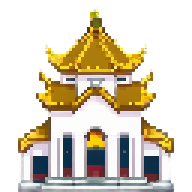
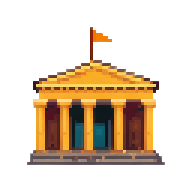
Torre do sacerdote: pagode asiatico -> templo grego (Partenon)
A tower_priest saia como pagode tailandes (telhado curvo dourado), que
destoava do tema grego. Prompt reescrito para templo parthenon com colunas
doricas e fontao triangular; NEG global reforcado contra pagoda/asian/
oriental/curved roof.

diff --git a/tools/gen_scenery.py b/tools/gen_scenery.py
@@ -24,7 +24,8 @@ NEG = ("text, words, watermark, signature, ui, interface, blurry, low quality, "
        "buildings, towers, castle, houses, roads, paths, stone tiles, walls, grid, fences"
        ", antialiased, gradient, flowers, colorful dots, confetti, "
        "many flowers, red flowers, blue flowers, busy, cluttered, "
-       "fortress, fort, keep, ruins, walls, fences, hedges, garden, roads, paths, building")
+       "fortress, fort, keep, ruins, walls, fences, hedges, garden, roads, paths, building"
+       ", pagoda, asian temple, chinese, japanese, thai, oriental, curved roof")
 
 # id -> (prompt, transparente, largura, altura)
 JOBS = {
@@ -56,8 +57,9 @@ JOBS = {
         "sturdy, top-down three-quarter view, tower defense building", True, 512, 512),
     "tower_mage": ("blue magic mage guild tower with glowing crystal orb on top and runes, "
         "top-down three-quarter view, tower defense building", True, 512, 512),
-    "tower_priest": ("white marble holy temple shrine with golden roof and columns, divine, "
-        "top-down three-quarter view, tower defense building", True, 512, 512),
+    "tower_priest": ("ancient greek parthenon temple building, white marble with tall doric "
+        "columns and a triangular pediment, golden divine glow inside, top-down three-quarter "
+        "view, tower defense building, european classical, not asian, no pagoda", True, 512, 512),
     # --- MAPAS pintados em HD (estilo Kingdom Rush), bioma nas bordas baked ---
     # O centro fica PLANO e VAZIO (o caminho/torres/castelo são desenhados por cima).
     "map_elis": ("top-down 2D painted cartoon forest clearing, Kingdom Rush art style, a "